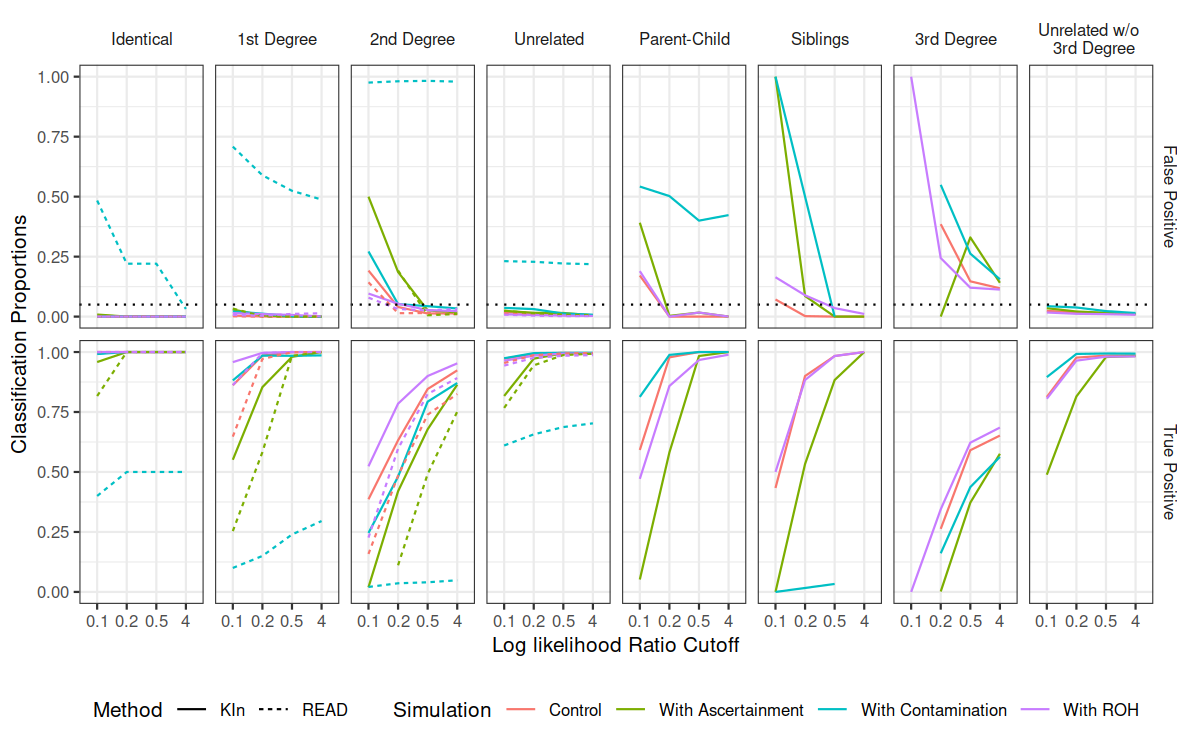
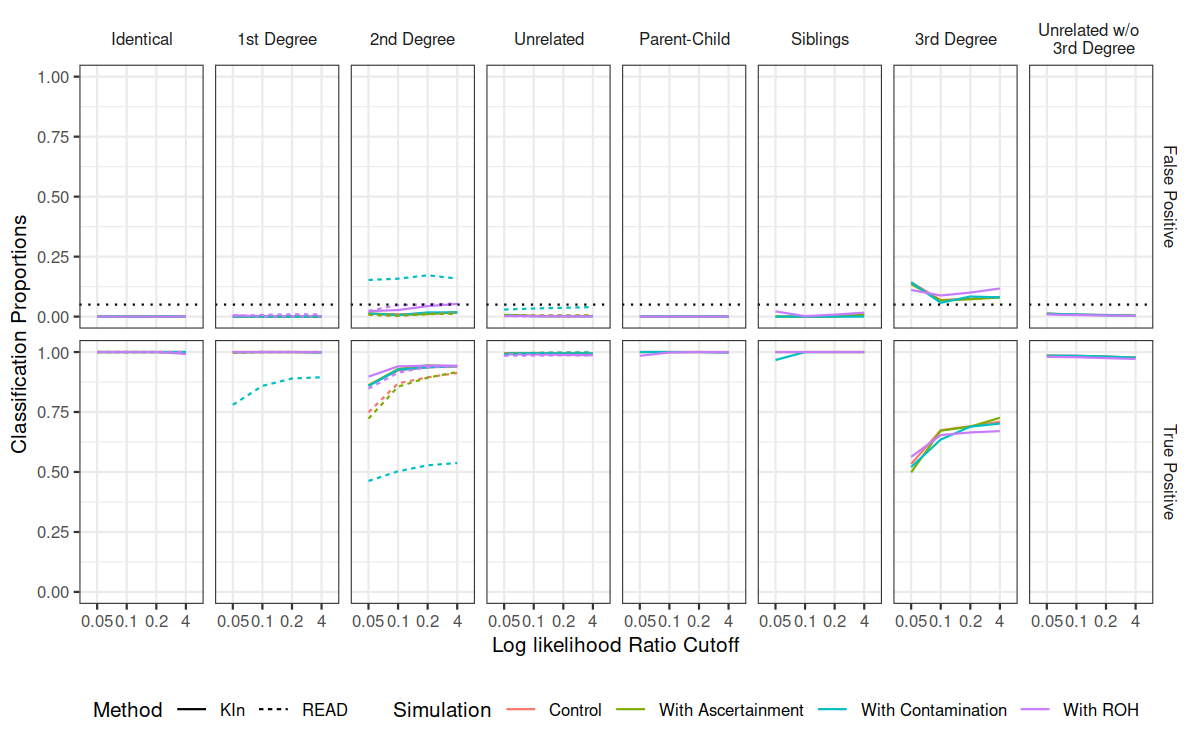
comparison plot from hmm_numba_id_corr

diff --git a/plots/plot_script.py b/plots/plot_script.py
@@ -11,12 +11,12 @@ def ROH_plotf(fold,outfold):
     ind=0
     cov=4
     f=0
-    rohf=fold+"hbd_hmm_corr/contam%s/inbred%s/run%s/coverage%s/filtered%s/asc%s_res/gamma_hapProbs/pw_%s.csv.gz" %(c,i,r,cov,f,a,ind)
+    rohf=fold+"hbd_hmm/contam%s/inbred%s/run%s/coverage%s/filtered%s/asc%s_res/gamma_hapProbs/pw_%s.csv.gz" %(c,i,r,cov,f,a,ind)
     roh=pd.read_csv(rohf, sep=",", header=0,index_col=0)
     roh.loc[roh['g_noin']>1,'g_noin']=np.nan
 
-    difff=fold+"contam%s/inbred%s/run%s/coverage%s/asc%s/inputMode_idhapProbs_fil%s/id_remHighdiv_diff.csv.gz" %(c,i,r,cov,a,f)
-    totalf=fold+"contam%s/inbred%s/run%s/coverage%s/asc%s/inputMode_idhapProbs_fil%s/id_remHighdiv_total.csv.gz" %(c,i,r,cov,a,f)
+    difff=fold+"contam%s/inbred%s/run%s/coverage%s/asc%s/inputMode_idhapProbs_fil%s/id_wind.csv.gz" %(c,i,r,cov,a,f)
+    totalf=fold+"contam%s/inbred%s/run%s/coverage%s/asc%s/inputMode_idhapProbs_fil%s/id_wint.csv.gz" %(c,i,r,cov,a,f)
 
     diff=np.loadtxt(difff, dtype='float', delimiter = ",")[:,ind]
     total=np.loadtxt(totalf, dtype='float', delimiter = ",")[:,ind]
@@ -28,9 +28,9 @@ def ROH_plotf(fold,outfold):
     hbdd=np.loadtxt(truedf, dtype='float', delimiter = ",")[:,ind]
     hbdt=np.loadtxt(truetf, dtype='float', delimiter = ",")[:,ind]
 
-    plt.plot(diff/total)
-    plt.plot(roh['g_noin']/20)
-    plt.plot(hbdd/hbdt/20)
+    #plt.plot(diff/total)
+    #plt.plot(roh['g_noin']/20)
+    #plt.plot(hbdd/hbdt/20)
 
     df1=pd.DataFrame(
         columns=['Chrm', 'Prop', 'Coverage',
@@ -57,14 +57,14 @@ def ROH_plotf(fold,outfold):
             inb=1
 
         acr=str(a)+ '_'+ str(cnt)+ '_'+ str(inb)
-        for cov in [4,0.5,0.2]:
+        for cov in [4,0.2,0.1]:
 
-            rohf=fold+"hbd_hmm_corr/contam%s/inbred%s/run%s/coverage%s/filtered%s/asc%s_res/gamma_hapProbs/pw_%s.csv.gz" %(cnt,inb,r,cov,f,a,ind)
+            rohf=fold+"hbd_hmm/contam%s/inbred%s/run%s/coverage%s/filtered%s/asc%s_res/gamma_hapProbs/pw_%s.csv.gz" %(cnt,inb,r,cov,f,a,ind)
             roh=pd.read_csv(rohf, sep=",", header=0,index_col=0)
             roh.loc[roh['g_noin']>1,'g_noin']=np.nan
 
-            difff=fold+"contam%s/inbred%s/run%s/coverage%s/asc%s/inputMode_idhapProbs_fil%s/id_remHighdiv_diff.csv.gz" %(cnt,inb,r,cov,a,f)
-            totalf=fold+"contam%s/inbred%s/run%s/coverage%s/asc%s/inputMode_idhapProbs_fil%s/id_remHighdiv_total.csv.gz" %(cnt,inb,r,cov,a,f)
+            difff=fold+"contam%s/inbred%s/run%s/coverage%s/asc%s/inputMode_idhapProbs_fil%s/id_wind.csv.gz" %(cnt,inb,r,cov,a,f)
+            totalf=fold+"contam%s/inbred%s/run%s/coverage%s/asc%s/inputMode_idhapProbs_fil%s/id_wint.csv.gz" %(cnt,inb,r,cov,a,f)
 
             diff=np.loadtxt(difff, dtype='float', delimiter = ",")[:,ind]
             total=np.loadtxt(totalf, dtype='float', delimiter = ",")[:,ind]
@@ -112,12 +112,12 @@ def IBD_plotf(fold,outfold):
     total=np.loadtxt(totalf, dtype='float', delimiter = ",")[:,pair]
     plt.plot(diff/total)
 
-    res_unf=fold+"hmm_numba_incorrect_roh_i1_i1_insteadOf_i1_i2/contam0/inbred0/run1/coverage4/filtered0/asc0/relation_un_file/res_inphapProbs/pw_9_10.csv.gz"
-    res_deg3f=fold+"hmm_numba_incorrect_roh_i1_i1_insteadOf_i1_i2/contam0/inbred0/run1/coverage4/filtered0/asc0/relation_deg3_file/res_inphapProbs/pw_9_10.csv.gz"
-    res_secf=fold+"hmm_numba_incorrect_roh_i1_i1_insteadOf_i1_i2/contam0/inbred0/run1/coverage4/filtered0/asc0/relation_gr_file/res_inphapProbs/pw_9_10.csv.gz"
-    res_pcf=fold+"hmm_numba_incorrect_roh_i1_i1_insteadOf_i1_i2/contam0/inbred0/run1/coverage4/filtered0/asc0/relation_pc_file/res_inphapProbs/pw_9_10.csv.gz"
-    res_sibf=fold+"hmm_numba_incorrect_roh_i1_i1_insteadOf_i1_i2/contam0/inbred0/run1/coverage4/filtered0/asc0/relation_sib_file/res_inphapProbs/pw_9_10.csv.gz"
-    res_idf=fold+"hmm_numba_incorrect_roh_i1_i1_insteadOf_i1_i2/contam0/inbred0/run1/coverage4/filtered0/asc0/relation_id_file/res_inphapProbs/pw_9_10.csv.gz"
+    res_unf=fold+"hmm_numba_corrA_relSim_fast_theoretical_sib_grA/contam0/inbred0/run1/coverage4/filtered0/asc0/relation_un_file/res_inphapProbs/pw_9_10.csv.gz"
+    res_deg3f=fold+"hmm_numba_corrA_relSim_fast_theoretical_sib_grA/contam0/inbred0/run1/coverage4/filtered0/asc0/relation_deg3_file/res_inphapProbs/pw_9_10.csv.gz"
+    res_secf=fold+"hmm_numba_corrA_relSim_fast_theoretical_sib_grA/contam0/inbred0/run1/coverage4/filtered0/asc0/relation_gr_file/res_inphapProbs/pw_9_10.csv.gz"
+    res_pcf=fold+"hmm_numba_corrA_relSim_fast_theoretical_sib_grA/contam0/inbred0/run1/coverage4/filtered0/asc0/relation_pc_file/res_inphapProbs/pw_9_10.csv.gz"
+    res_sibf=fold+"hmm_numba_corrA_relSim_fast_theoretical_sib_grA/contam0/inbred0/run1/coverage4/filtered0/asc0/relation_sib_file/res_inphapProbs/pw_9_10.csv.gz"
+    res_idf=fold+"hmm_numba_corrA_relSim_fast_theoretical_sib_grA/contam0/inbred0/run1/coverage4/filtered0/asc0/relation_id_file/res_inphapProbs/pw_9_10.csv.gz"
 
     res_un=np.loadtxt(res_unf, dtype='float', delimiter = ",")
     res_deg3=np.loadtxt(res_deg3f, dtype='float', delimiter = ",")
@@ -229,7 +229,7 @@ def all_manipulation(t1):
 def cutoff_plotf(a,cnt,inb,hmmfold,outfold):
 
     models=["allLikelihoods.withdeg3_inphapProbs","allLikelihoods.nodeg3_inphapProbs","read_inppshap"]
-    covs=[4,0.5,0.2,0.1]
+    covs=[4,0.2,0.1,0.05]
     outf=outfold+"contam%s_inbred%s_model_performance_allroc_asc%s.csv.gz" %(cnt,inb,a)
 
 
@@ -256,7 +256,7 @@ def cutoff_plotf(a,cnt,inb,hmmfold,outfold):
                 elif model1.split('_')[0]=="read":
                     un_flag=0
                     model=model1
-                    table=hmmfold+"roc/contam%s/inbred%s/model_performance_%s/coverage%s/asc%s/filtered0_cut%s.csv.gz" %(cnt,inb,model,cov,a,ct)
+                    table=hmmfold+"rocNo3deg/contam%s/inbred%s/model_performance_%s/coverage%s/asc%s/filtered0_cut%s.csv.gz" %(cnt,inb,model,cov,a,ct)
 
                 t= pd.read_csv(table, sep=",", header=0,index_col=0)
                 t=all_manipulation(t)
@@ -336,7 +336,7 @@ def cutoff_plotf(a,cnt,inb,hmmfold,outfold):
 def comparison_table(a,cnt,inb,hmmfold):
 
     models=["allLikelihoods.withdeg3_inphapProbs","allLikelihoods.nodeg3_inphapProbs","read_inppshap"]
-    covs=[4,0.5,0.2,0.1]
+    covs=[4,0.2,0.1,0.05]
     #outf=outfold+"contam%s_inbred%s_model_performance_allroc_asc%s.csv.gz" %(cnt,inb,a)
 
 
@@ -363,7 +363,7 @@ def comparison_table(a,cnt,inb,hmmfold):
             elif model1.split('_')[0]=="read":
                 un_flag=0
                 model=model1
-                table=hmmfold+"roc/contam%s/inbred%s/model_performance_%s/coverage%s/asc%s/filtered0_cut%s.csv.gz" %(cnt,inb,model,cov,a,ct)
+                table="/mnt/diversity/divyaratan_popli/100arc/inbreeding/fastsim_gz_highDiversity/hmm_numba_corrA_relSim_fast_theoretical_sib_grA/rocNo3deg/contam%s/inbred%s/model_performance_%s/coverage%s/asc%s/filtered0_cut%s.csv.gz" %(cnt,inb,model,cov,a,ct)
 
             t= pd.read_csv(table, sep=",", header=0,index_col=0)
             t=all_manipulation(t)
